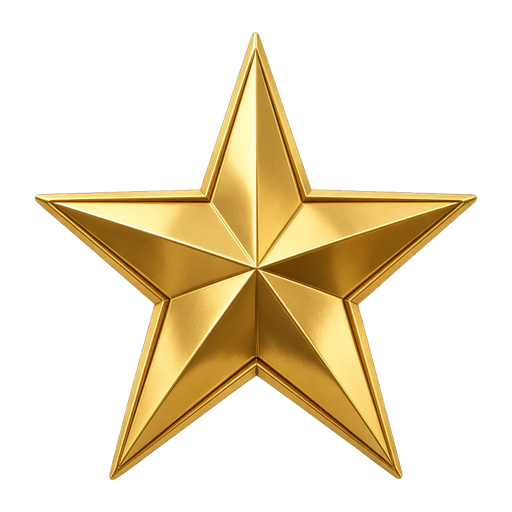
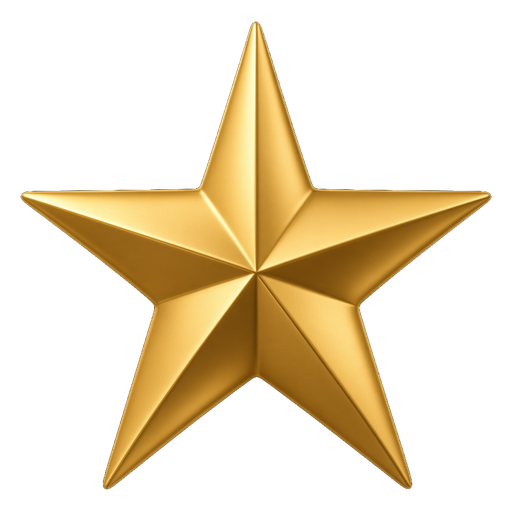
feat(intro): soften the seven stars and their fade-in
Smoother gold stars, even arc, and a slower ease instead of a snap.

Changed region(s): [[0.0312, 0.0312, 0.9688, 0.9688]]

diff --git a/index.html b/index.html
@@ -429,13 +429,13 @@ window.ffkIsNative = function () {
     <div class="intro-stage">
       <span class="intro-floor-shadow" aria-hidden="true"></span>
       <span class="intro-stars" aria-hidden="true">
-        <span class="intro-orbit-star" style="--a:-128deg;--r:.54;--s:.09;--d:0"><img src="icons/intro-star.png" alt=""></span>
-        <span class="intro-orbit-star" style="--a:-86deg;--r:.50;--s:.10;--d:1"><img src="icons/intro-star.png" alt=""></span>
-        <span class="intro-orbit-star" style="--a:-44deg;--r:.48;--s:.11;--d:2"><img src="icons/intro-star.png" alt=""></span>
-        <span class="intro-orbit-star" style="--a:0deg;--r:.46;--s:.13;--d:3"><img src="icons/intro-star.png" alt=""></span>
-        <span class="intro-orbit-star" style="--a:44deg;--r:.48;--s:.11;--d:4"><img src="icons/intro-star.png" alt=""></span>
-        <span class="intro-orbit-star" style="--a:86deg;--r:.50;--s:.10;--d:5"><img src="icons/intro-star.png" alt=""></span>
-        <span class="intro-orbit-star" style="--a:128deg;--r:.54;--s:.09;--d:6"><img src="icons/intro-star.png" alt=""></span>
+        <span class="intro-orbit-star" style="--a:-120deg;--r:.52;--s:.095;--d:0"><img src="icons/intro-star.png" alt=""></span>
+        <span class="intro-orbit-star" style="--a:-80deg;--r:.49;--s:.10;--d:1"><img src="icons/intro-star.png" alt=""></span>
+        <span class="intro-orbit-star" style="--a:-40deg;--r:.47;--s:.11;--d:2"><img src="icons/intro-star.png" alt=""></span>
+        <span class="intro-orbit-star" style="--a:0deg;--r:.46;--s:.125;--d:3"><img src="icons/intro-star.png" alt=""></span>
+        <span class="intro-orbit-star" style="--a:40deg;--r:.47;--s:.11;--d:4"><img src="icons/intro-star.png" alt=""></span>
+        <span class="intro-orbit-star" style="--a:80deg;--r:.49;--s:.10;--d:5"><img src="icons/intro-star.png" alt=""></span>
+        <span class="intro-orbit-star" style="--a:120deg;--r:.52;--s:.095;--d:6"><img src="icons/intro-star.png" alt=""></span>
       </span>
       <img class="intro-layer intro-cup" src="icons/intro-cup.png" alt="">
     </div>

diff --git a/css/app.css b/css/app.css
@@ -362,10 +362,10 @@
   }
   .intro-orbit-star img{
     width:100%;height:100%;display:block;object-fit:contain;
-    filter:drop-shadow(0 4px 5px rgba(0,0,0,.55)) drop-shadow(0 0 8px rgba(245,185,66,.5));
+    filter:drop-shadow(0 3px 4px rgba(0,0,0,.4)) drop-shadow(0 0 10px rgba(245,185,66,.35));
   }
   .intro.play .intro-orbit-star{
-    animation:introOrbitStar .55s cubic-bezier(.16,1.2,.28,1) calc(.95s + (var(--d)* .18s)) forwards;
+    animation:introOrbitStar 1.05s cubic-bezier(.22,.62,.28,1) calc(.72s + (var(--d)* .14s)) forwards;
   }
   .intro-name{
     position:relative;z-index:1;
@@ -388,13 +388,12 @@
     transform-origin:center bottom;
   }
   .intro.play .intro-name-ch{
-    animation:introBallBounce .85s cubic-bezier(.22,.9,.3,1.15) calc(2.7s + (var(--i) * .09s)) forwards;
+    animation:introBallBounce .85s cubic-bezier(.22,.9,.3,1.15) calc(2.85s + (var(--i) * .09s)) forwards;
   }
   @keyframes introCup{to{opacity:1;transform:scale(1) translateY(0)}}
   @keyframes introGlowIn{to{opacity:1}}
   @keyframes introOrbitStar{
-    0%{opacity:0;scale:.18}
-    58%{opacity:1;scale:1.12}
+    0%{opacity:0;scale:.78}
     100%{opacity:1;scale:1}
   }
   @keyframes introBallBounce{

diff --git a/js/version.js b/js/version.js
@@ -1,2 +1,2 @@
 // Keep in sync with android/app/build.gradle versionName.
-window.FFK_VERSION = '1.2.22';
+window.FFK_VERSION = '1.2.23';

diff --git a/sw.js b/sw.js
@@ -1,4 +1,4 @@
-const CACHE = 'ffk_v104';
+const CACHE = 'ffk_v105';
 const ASSETS = [
   './',
   './index.html',
